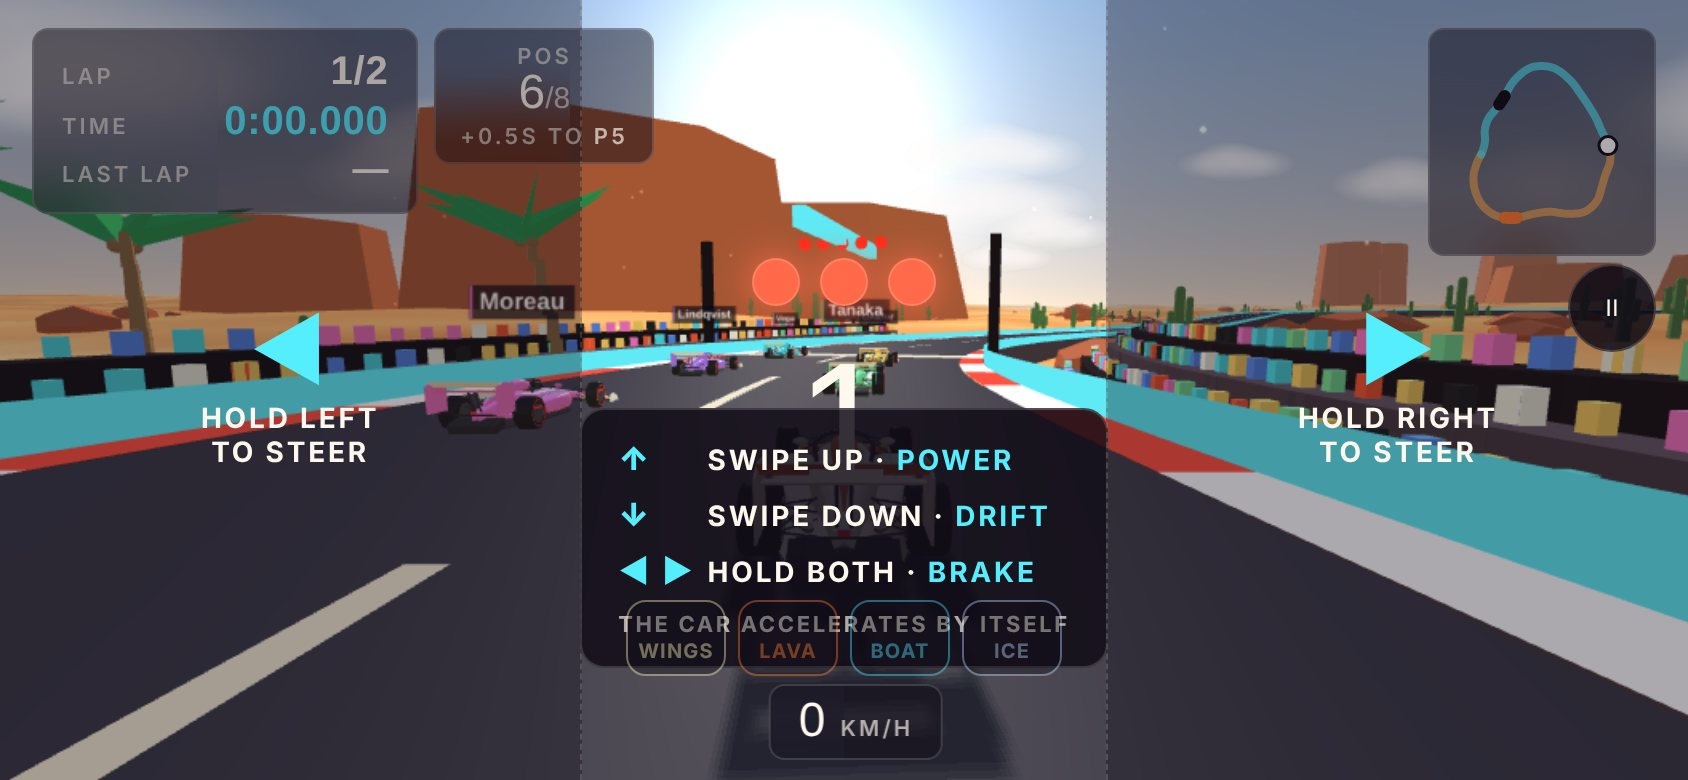
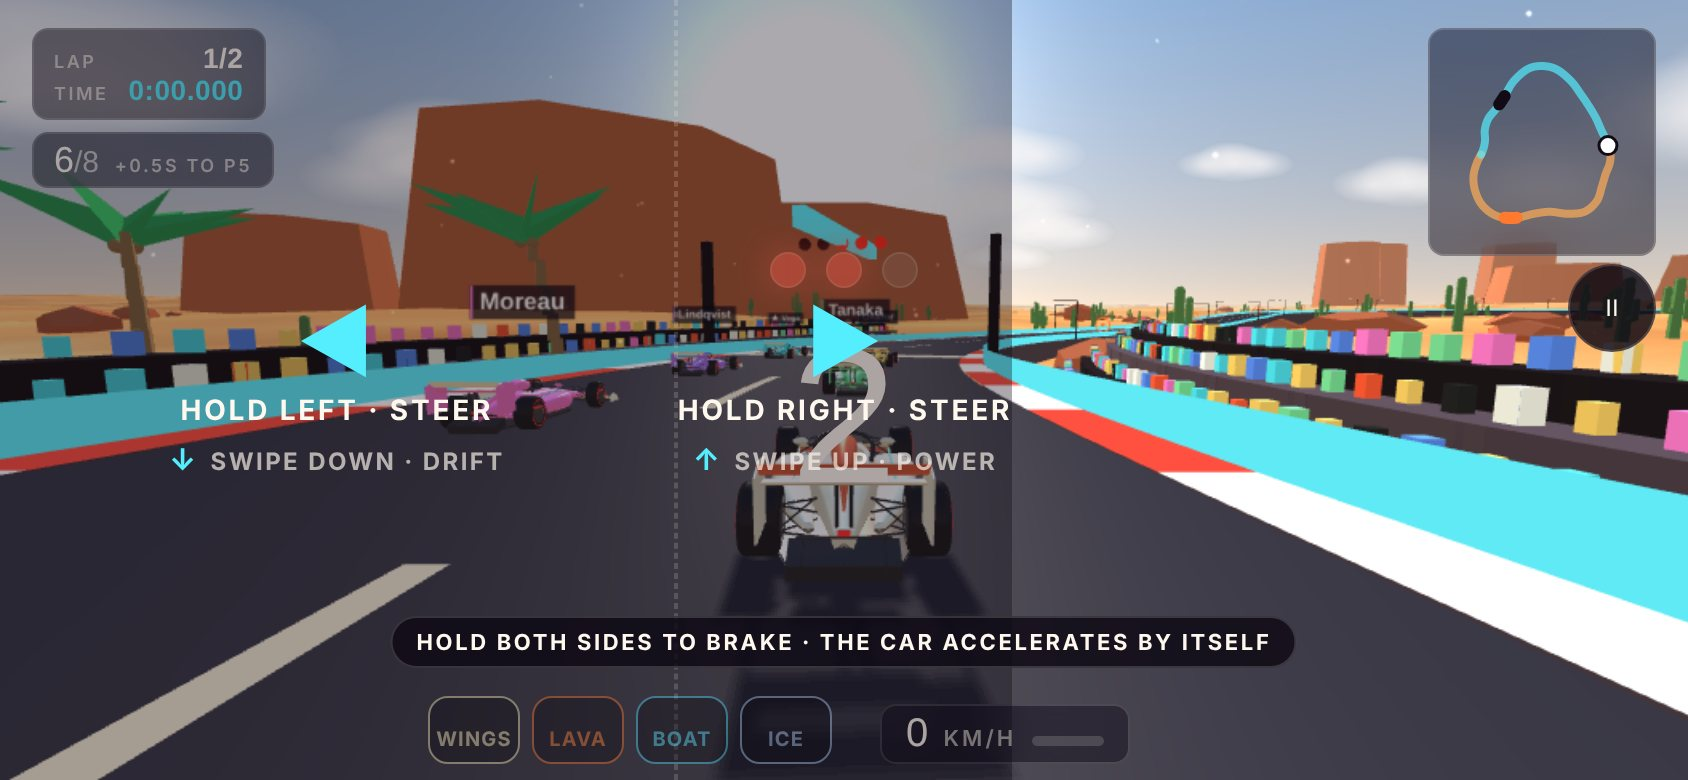
Phone UX: keep the road and car clear of hints
- Hazard hints become a slim strip; on phones it sits at the top
  centre, between the lap timer and the minimap
- Phone HUD: compact lap/time and position chips, power chips and speed
  in one row along the bottom edge (chips are status-only)
- Only one top message at a time; smaller world banner and messages
- Coach overlay split into the two side panels so the countdown stays
  clear; it disappears just after GO
- Smaller wrong-way warning on phones; milder hazard slow motion

Claude-Session: https://claude.ai/code/session_01FSBBRBtWEs9Dybw4UyTyot

diff --git a/css/style.css b/css/style.css
@@ -66,30 +66,31 @@ body:not(.racing) #hud{display:none}
 .btn:hover{border-color:var(--accent)}
 .btn small{color:var(--dim);font-weight:500;margin-left:6px}
 #msg{position:fixed;left:50%;top:calc(env(safe-area-inset-top,0px) + 96px);transform:translateX(-50%);text-align:center;pointer-events:none;
-  font-family:var(--display);font-size:clamp(14px,2.4vw,20px);letter-spacing:.06em;text-shadow:0 2px 14px rgba(0,0,0,.55);transition:opacity .4s;opacity:0;white-space:nowrap}
-#msg .sub{display:block;font-family:var(--ui);font-size:15px;letter-spacing:.14em;text-transform:uppercase;margin-top:6px;font-weight:600}
-#zoneBanner{position:fixed;left:0;right:0;top:24%;text-align:center;pointer-events:none;opacity:0;transition:opacity .9s,transform .9s;transform:translateY(8px);padding-inline:16px}
+  font-family:var(--display);font-size:clamp(13px,1.8vw,16px);letter-spacing:.06em;text-shadow:0 2px 14px rgba(0,0,0,.55);transition:opacity .4s;opacity:0;white-space:nowrap}
+#msg .sub{display:block;font-family:var(--ui);font-size:13px;letter-spacing:.14em;text-transform:uppercase;margin-top:6px;font-weight:600}
+#zoneBanner{position:fixed;left:0;right:0;top:13%;text-align:center;pointer-events:none;opacity:0;transition:opacity .9s,transform .9s;transform:translateY(8px);padding-inline:16px}
 #zoneBanner.show{opacity:1;transform:none}
-#zoneBanner .zn{font-family:var(--display);font-size:clamp(22px,5vw,46px);letter-spacing:.22em;text-transform:uppercase;text-shadow:0 4px 30px rgba(0,0,0,.35)}
-#zoneBanner .zs{font-size:15px;letter-spacing:.24em;text-transform:uppercase;opacity:.85;margin-top:8px;font-weight:600}
+#zoneBanner .zn{font-family:var(--display);font-size:clamp(16px,2.6vw,26px);letter-spacing:.2em;text-transform:uppercase;text-shadow:0 4px 30px rgba(0,0,0,.35)}
+#zoneBanner .zs{font-size:12px;letter-spacing:.22em;text-transform:uppercase;opacity:.85;margin-top:4px;font-weight:600}
 #prompt{position:fixed;left:50%;bottom:calc(env(safe-area-inset-bottom,0px) + 150px);transform:translateX(-50%);display:flex;flex-direction:column;align-items:center;gap:6px;pointer-events:none;
-  background:var(--panel-solid);border:1px solid var(--line);border-radius:10px;padding:10px 18px;text-align:center;max-width:calc(var(--appw,100vw) - 32px)}
-#prompt .ph{font-family:var(--display);font-size:clamp(14px,2.2vw,19px);letter-spacing:.08em;text-transform:uppercase}
-#prompt .pa{font-size:16px;font-weight:700;letter-spacing:.1em;text-transform:uppercase;color:var(--ink);display:flex;align-items:center;gap:8px}
-#prompt kbd{font-size:16px;padding:3px 10px;background:var(--ink);color:#1a0d12;border-color:var(--ink)}
+  background:var(--panel);border:1px solid var(--line);border-radius:10px;padding:6px 14px;gap:3px;text-align:center;max-width:calc(var(--appw,100vw) - 32px)}
+#prompt .ph{font-family:var(--display);font-size:clamp(12px,1.6vw,15px);letter-spacing:.08em;text-transform:uppercase}
+#prompt .pa{font-size:14px;font-weight:700;letter-spacing:.1em;text-transform:uppercase;color:var(--ink);display:flex;align-items:center;gap:8px}
+#prompt kbd{font-size:13px;padding:2px 8px;background:var(--ink);color:#1a0d12;border-color:var(--ink)}
 #prompt.urgent{border-color:var(--accent);animation:urg .5s ease-in-out infinite alternate}
 #prompt.bad{border-color:var(--hot)}#prompt.bad .ph{color:var(--hot)}
 #prompt .pbar{width:180px;height:6px;border-radius:3px;background:var(--line);overflow:hidden}#prompt .pbar b{display:block;height:100%;background:var(--hot)}
 @keyframes urg{to{box-shadow:0 0 22px var(--accent)}}
-#tutor{position:fixed;left:50%;top:50%;transform:translate(-50%,-30%);pointer-events:none;text-align:center;display:grid;gap:10px;justify-items:center;
-  background:rgba(14,9,20,.78);backdrop-filter:blur(10px);-webkit-backdrop-filter:blur(10px);border:2px solid var(--accent);border-radius:14px;padding:18px 26px 20px;width:min(460px,calc(var(--appw,100vw) - 32px));
-  animation:tutIn .25s ease-out,urg .6s ease-in-out .25s infinite alternate}
-#tutor .tw{font-family:var(--display);font-size:clamp(18px,3.4vw,28px);letter-spacing:.1em;text-transform:uppercase}
-#tutor .tk{font-family:var(--display);font-size:clamp(20px,4vw,34px);letter-spacing:.06em;text-transform:uppercase;display:flex;align-items:center;gap:12px}
-#tutor .tk kbd{font-family:var(--display);font-size:clamp(24px,5vw,40px);padding:4px 16px;background:var(--ink);color:#1a0d12;border:0;border-radius:8px;box-shadow:0 4px 0 rgba(0,0,0,.4)}
-#tutor .tk b{background:var(--ink);color:#1a0d12;padding:2px 12px;border-radius:8px}
-#tutor .tx{font-size:18px;font-weight:600;line-height:1.3;color:var(--ink);max-width:36ch}
-@keyframes tutIn{from{opacity:0;transform:translate(-50%,-20%) scale(.92)}}
+#tutor{position:fixed;left:50%;bottom:calc(env(safe-area-inset-bottom,0px) + 150px);transform:translateX(-50%);display:flex;align-items:center;gap:10px;white-space:nowrap;pointer-events:none;
+  background:rgba(14,9,20,.7);backdrop-filter:blur(8px);-webkit-backdrop-filter:blur(8px);border:1.5px solid var(--c,var(--accent));border-radius:999px;padding:6px 8px 6px 12px;max-width:calc(var(--appw,100vw) - 32px);
+  animation:tutIn .2s ease-out,tglow .7s ease-in-out .2s infinite alternate}
+#tutor .ic{width:10px;height:10px;border-radius:50%;background:var(--c);box-shadow:0 0 8px var(--c);flex:none}
+#tutor .tw{font-family:var(--display);font-size:13px;letter-spacing:.08em;text-transform:uppercase;color:var(--c)}
+#tutor .tk{display:flex;align-items:center;gap:7px;font-size:14px;font-weight:700;letter-spacing:.08em;text-transform:uppercase;color:var(--ink)}
+#tutor .tk kbd{font-family:var(--display);font-size:13px;padding:3px 9px;background:var(--ink);color:#1a0d12;border:0;border-radius:6px}
+#tutor .tk b{color:var(--c)}
+@keyframes tutIn{from{opacity:0;transform:translate(-50%,8px)}}
+@keyframes tglow{to{box-shadow:0 0 16px var(--c)}}
 body:not(.racing) #tutor,body.paused #tutor{display:none}
 
 @media (prefers-reduced-motion:reduce){#tutor{animation:none}}
@@ -221,23 +222,40 @@ body.rot #app{inset:auto;top:0;left:0;transform-origin:0 0}
 #coach{position:fixed;inset:0;display:grid;grid-template-columns:1fr auto 1fr;align-items:center;pointer-events:none;z-index:2}
 #coach .ch{display:flex;flex-direction:column;align-items:center;gap:6px;font-size:14px;font-weight:700;letter-spacing:.1em;text-transform:uppercase;text-align:center}
 #coach .ch.l,#coach .ch.r{height:100%;justify-content:center;background:rgba(14,9,20,.35)}
-#coach .ch.l{border-right:1px dashed var(--line)}#coach .ch.r{border-left:1px dashed var(--line)}
+#coach .ch.l{grid-column:1;border-right:1px dashed var(--line)}#coach .ch.r{grid-column:3}#coach .ch.r{border-left:1px dashed var(--line)}
 #coach .ch.l b,#coach .ch.r b{font-size:40px;line-height:1;color:var(--accent)}
-#coach .ch.c{align-self:end;margin-bottom:56px;background:var(--panel-solid);border:1px solid var(--line);border-radius:12px;padding:14px 18px;gap:8px;align-items:stretch;text-align:left;margin-inline:-1px}
+#coach .ch.c{display:none;background:var(--panel-solid);border:1px solid var(--line);border-radius:12px;padding:14px 18px;gap:8px;align-items:stretch;text-align:left;margin-inline:-1px}
 #coach .ch.c b{display:inline-block;min-width:40px;color:var(--accent);font-size:16px}
 #coach .ch.c em{font-style:normal;color:var(--accent)}
+.coachNote{position:absolute;left:50%;transform:translateX(-50%);bottom:calc(env(safe-area-inset-bottom,0px) + 56px);white-space:nowrap;font-size:11px;font-weight:700;letter-spacing:.12em;text-transform:uppercase;color:var(--ink);background:var(--panel-solid);border:1px solid var(--line);border-radius:999px;padding:5px 12px}
+#coach .ch .g{font-size:12px;color:var(--dim);letter-spacing:.1em}#coach .ch .g em{font-style:normal;color:var(--accent);font-size:15px;margin-right:2px}
 #coach .ch.c small{font-size:11px;color:var(--dim);letter-spacing:.12em;text-align:center;margin-top:2px}
 @media (pointer:coarse){
-  #zoneBanner{top:40%}#zoneBanner .zn{font-size:22px}#zoneBanner .zs{font-size:12px}
+  #zoneBanner{top:22%}#zoneBanner .zn{font-size:16px}#zoneBanner .zs{font-size:11px}
   body.racing:not(.paused) #touchZone{display:block}body.racing:not(.paused) #touchHud{display:block}
   .touchOnly{display:grid}.deskOnly{display:none!important}
   #minimap{width:96px;height:96px}
   .bar.bottom .tools,.bar.bottom #powers{display:none}
   .bar.bottom{position:fixed;left:50%;transform:translateX(-50%);bottom:calc(env(safe-area-inset-bottom,0px) + 10px);justify-content:center}
   #speedo{display:flex;align-items:baseline;gap:8px;padding:6px 14px;min-width:0}#speedo>.lbl{order:2}#speed{font-size:24px}#rev,#speedo .speedRow{display:none}
-  #prompt{bottom:calc(env(safe-area-inset-bottom,0px) + 100px)}
   #board{display:none}#posChip{padding:6px 12px}#posVal{font-size:24px}
-  #tutor{top:40%;padding:12px 16px 14px}#tutor .tx{font-size:15px}
+  /* phone: hints at the top centre, one slim status row along the bottom edge, nothing under the car */
+  .topLeft{flex-direction:column;gap:6px!important}
+  .timing{padding:6px 10px;row-gap:0;column-gap:10px}.timing .lbl{font-size:9px}.timing .val{font-size:13px}.timing .val.big{font-size:14px}#refLbl,#refTime{display:none}
+  #posChip{padding:4px 10px!important;display:flex;align-items:baseline;gap:8px}#posChip>.lbl:first-child{display:none}#posVal{font-size:18px!important}#posGap{font-size:9px;margin:0!important}
+  #tutor,#prompt{top:calc(env(safe-area-inset-top,0px) + 12px);bottom:auto!important;max-width:calc(var(--appw,100vw) - 380px);min-width:0}
+  #prompt{flex-direction:row;gap:10px;padding:5px 12px}#prompt .pbar{width:70px}
+  #msg{top:calc(env(safe-area-inset-top,0px) + 52px)!important}#msg .sub{font-size:11px;margin-top:2px}
+  #zoneBanner{top:calc(env(safe-area-inset-top,0px) + 96px)!important}
+  #wrongWay{top:calc(env(safe-area-inset-top,0px) + 50px)!important}
+  #touchHud .tpows{bottom:calc(env(safe-area-inset-bottom,0px) + 8px)!important;transform:translateX(-100%)!important;margin-left:-6px;pointer-events:none}
+  .tpw{height:34px!important;width:46px!important}
+  .bar.bottom{left:50%!important;transform:none!important;margin-left:6px;bottom:calc(env(safe-area-inset-bottom,0px) + 8px)!important}
+  #speedo{padding:4px 12px!important}#speed{font-size:20px!important}
+  #count{font-size:96px}#count .lights i{width:16px;height:16px}
+  #tutor .tw{white-space:nowrap}
+  #wrongWay{top:18%;padding:6px 16px}#wrongWay b{font-size:20px}#wrongWay span{font-size:11px}
+  #tutor .tw{font-size:11px}#tutor .tk{font-size:12px}#tutor .tk kbd{font-size:11px}#tutor{padding:4px 6px 4px 10px;gap:8px}
   #msg{top:calc(env(safe-area-inset-top,0px) + 66px)}
 }
 body.narrow .timing{padding:8px 10px;column-gap:10px}body.narrow .val{font-size:15px}body.narrow .val.big{font-size:15px}body.narrow #minimap{width:96px;height:96px}

diff --git a/js/game.js b/js/game.js
@@ -521,7 +521,7 @@ function tone(f1,f2,dur,type,vol){if(!ac||!soundOn)return;const o=ac.createOscil
 
 /* ---------- Messages ---------- */
 let msgTimer=0,bannerT=0;
-function flash(main,sub,col){const el=$('msg');el.innerHTML=esc(main)+(sub?'<span class="sub" style="color:'+(col||'var(--dim)')+'">'+esc(sub)+'</span>':'');el.style.opacity=1;msgTimer=2.4;}
+function flash(main,sub,col){if(bannerT>0){$('zoneBanner').classList.remove('show');bannerT=0;}const el=$('msg');el.innerHTML=esc(main)+(sub?'<span class="sub" style="color:'+(col||'var(--dim)')+'">'+esc(sub)+'</span>':'');el.style.opacity=1;msgTimer=1.9;}
 function gainFx(t){const b=pwEls[t];b.classList.remove('gain');void b.offsetWidth;b.classList.add('gain');const p=$('gainPop');p.textContent='+34% '+PW[t].name.toLowerCase();p.style.color='var('+PW[t].css+')';p.classList.remove('show');void p.offsetWidth;p.classList.add('show');}
 
 /* ---------- Minimap ---------- */
@@ -629,7 +629,7 @@ function updWrongWay(dt){
   if(Math.abs(st.speed)>2.5&&along<-.25)wwT+=dt;              // driving (or reversing) against the track
   else if(Math.abs(st.speed)<=2.5&&facing<-.5)wwT+=dt*.7;     // parked facing backwards
   else wwT=Math.max(0,wwT-dt*2.5);
-  $('wrongWay').hidden=wwT<.45;
+  $('wrongWay').hidden=wwT<.45;if(wwT>=.45){$('msg').style.opacity=0;msgTimer=0;}
   if(wwT>2.4)turnAround();
 }
 function startRace(li,kind,raceId,lane){
@@ -780,7 +780,7 @@ function worldUpdate(dt,idx,focus){
   if(bloom)bloom.strength=mixN('bloom');
   let dom=0;for(let k=1;k<4;k++)if(WZ[k]>WZ[dom])dom=k;
   if(dom!==lastZone){lastZone=dom;document.documentElement.style.setProperty('--accent',hex(ZONES[dom].rail));
-    if(mode==='race'&&race&&race.state==='run'){$('zoneName').textContent=ZONES[dom].name;$('zoneSub').textContent=ZONES[dom].sub;$('zoneBanner').classList.add('show');bannerT=3;}}
+    if(mode==='race'&&race&&race.state==='run'&&msgTimer<=0){$('zoneName').textContent=ZONES[dom].name;$('zoneSub').textContent=ZONES[dom].sub;$('zoneBanner').classList.add('show');bannerT=2.2;}}
   envDirty-=dt;if(envDirty<=0&&(WZ[dom]<.985||dom!==envZone)){refreshEnv();envDirty=.6;envZone=dom;}
 }
 function updSparkles(dt,focus){
@@ -994,7 +994,7 @@ function perfGuard(dt){perfT+=dt;perfN++;if(perfT<3)return;const fps=perfN/perfT
   if(perfStep===3){renderer.setPixelRatio(1);resize();}}
 function render(){if(composer)composer.render();else renderer.render(scene,camera);}
 const ACT=['activate wings','switch on lava tyres','switch on the boat','switch on ice studs'];
-let hudDmg=-1,promptKey='',tutKey='',tutorT=-1,slowMo=false;
+let hudDmg=-1,tutC='--accent',promptKey='',tutKey='',tutorT=-1,slowMo=false;
 const TUTX=['to spread your wings and fly over the gap. '+(coarse?'Swipe up':'Press F')+' again after you land to fold them.','to switch on lava tyres before you hit the lava.','to switch on the boat before the flood.','to switch on ice studs for grip on the ice.'],TUTC=['gold','orange','blue','ice-blue'];
 function updPrompt(){
   let best=null,bd=1e9,inside=null;
@@ -1016,11 +1016,11 @@ function updPrompt(){
   if(best&&!inside&&race&&race.state==='run'){const t=best.t,p=PW[t];
     if((race.li<=2||!prog.seen[t])&&!st.on[t]){
       if(st.pw[t]>0&&bd<120){tk=t;slow=bd<95;
-        tut='<div class="tw" style="color:var('+p.css+')">'+p.hz+' ahead</div><div class="tk">'+(coarse?'Swipe <b>↑ UP</b>':'Press <kbd>'+(t===0?'F':t+1)+'</kbd>')+'</div><div class="tx">'+TUTX[t]+'</div>';}
-      else if(st.pw[t]<=0&&bd<220){tut='<div class="tw" style="color:var('+p.css+')">'+p.hz+' ahead</div><div class="tx">Drive through the <b style="color:var('+p.css+')">'+TUTC[t]+' rings</b> to charge '+p.name.toLowerCase()+'</div>';}}}
+        tut='<i class="ic"></i><span class="tw">'+p.hz+'</span><span class="tk">'+(coarse?'<kbd>Swipe ↑</kbd>':'<kbd>'+(t===0?'F':t+1)+'</kbd>')+p.name+'</span>';tutC=p.css;}
+      else if(st.pw[t]<=0&&bd<220){tut='<i class="ic"></i><span class="tw">'+p.hz+'</span><span class="tk">Grab the <b>'+TUTC[t]+' rings</b></span>';tutC=p.css;}}}
   if(inside)for(const h of HAZ){const into=((st.idx-h.a)%M+M)%M;if(into>h.b-h.a-3&&into<h.b-h.a&&!prog.seen[h.t]){prog.seen[h.t]=1;saveProg();}}
   tutorT=tk;slowMo=slow;
-  if(tut!==tutKey){tutKey=tut;$('tutor').innerHTML=tut;$('tutor').hidden=!tut;if(tut){$('zoneBanner').classList.remove('show');bannerT=0;}}
+  if(tut!==tutKey){tutKey=tut;$('tutor').innerHTML=tut;$('tutor').hidden=!tut;if(tut)$('tutor').style.setProperty('--c','var('+tutC+')');if(tut){$('zoneBanner').classList.remove('show');bannerT=0;}}
   if(tut)html='';
   const key=html+cls;if(key!==promptKey){promptKey=key;el.innerHTML=html;el.className=cls;el.hidden=!html;}
 }
@@ -1029,7 +1029,7 @@ function hudPowers(){for(let k=0;k<4;k++){const b=pwEls[k];b.querySelector('.m b
   if(coarse)document.querySelectorAll('.tpw').forEach((b,k)=>{b.style.setProperty('--f',st.pw[k]+'%');b.classList.toggle('on',st.on[k]);b.classList.toggle('empty',st.pw[k]<=0);});}
 function frame(t){
   requestAnimationFrame(frame);
-  let dt=Math.min(.05,(t-last)/1000);last=t;perfGuard(dt);if(slowMo&&mode==='race'&&race&&!race.multi&&!paused)dt*=.35;clock+=dt;
+  let dt=Math.min(.05,(t-last)/1000);last=t;perfGuard(dt);if(slowMo&&mode==='race'&&race&&!race.multi&&!paused)dt*=.55;clock+=dt;
   sky.position.copy(camera.position);skyGroup.position.copy(camera.position);
   if(!M){render();return;}
   updAmbient(clock);
@@ -1051,7 +1051,7 @@ function frame(t){
     race.countT-=dt;const n=Math.ceil(race.countT);const el=$('count');el.hidden=false;
     if(race.countT>0){const m=Math.min(3,n);el.innerHTML='<div class="lights">'+[0,1,2].map(i=>'<i class="'+(i<4-m?'on':'')+'"></i>').join('')+'</div>'+m;}
     else{el.innerHTML='<div class="lights go"><i></i><i></i><i></i></div><span class="go">GO</span>';race.state='run';setLamps(0);if(race.gp){const nm=ais.find(a=>a.nem);if(nm)setTimeout(()=>{if(race&&race.state==='run')flash('Your rival: '+nm.name,'Beat them to the line','var(--accent)');},1800);}race.t0=now;race.lapStart=now;gPtr=0;
-      $('zoneName').textContent=ZONES[SEGZ[0]].name;$('zoneSub').textContent='Level '+(race.li+1)+' · '+LEVELS[race.li].name;$('zoneBanner').classList.add('show');bannerT=3;setTimeout(()=>{$('count').hidden=true;},900);}
+      $('zoneName').textContent=ZONES[SEGZ[0]].name;$('zoneSub').textContent='Level '+(race.li+1)+' · '+LEVELS[race.li].name;$('zoneBanner').classList.add('show');bannerT=2.2;setTimeout(()=>{$('count').hidden=true;},900);}
     physics(dt,false);updAI(dt,false);setLamps(race.countT);if(coarse&&$('coach').hidden)$('coach').hidden=false;
   }else if(race.state==='run'){
     const prev=physics(dt,canDrive);if(race.state==='run')lapLogic(prev);if(race.gp&&race.state==='run'){updAI(dt,true);collide();}
@@ -1066,7 +1066,7 @@ function frame(t){
   else if(race.state==='failed'){ghost.visible=false;st.speed*=Math.exp(-dt*3);if(!paused&&now-race.failT>.9)showFail();}
   else{physics(dt,false);ghost.visible=false;slowMo=false;if(race.confetti&&Math.random()<.6)emit(new V3(st.pos.x+(Math.random()-.5)*10,st.pos.y+8,st.pos.z+(Math.random()-.5)*10),3,2);$('wrongWay').hidden=true;if(!$('tutor').hidden){$('tutor').hidden=true;tutKey='';}$('prompt').hidden=true;promptKey='';if(race.gp)updAI(dt,true);}
   if(race.state==='run'&&lampsOn&&now-race.t0>1.2){setLamps(-1);}
-  if(!$('coach').hidden&&race.state==='run'&&(now-race.t0>2||tps.size))$('coach').hidden=true;
+  if(!$('coach').hidden&&race.state!=='count'&&(now-race.t0>.6||tps.size||race.state!=='run'))$('coach').hidden=true;
   placeCar(dt);updTokens(dt);updTrail();updRemotes(dt);updParts(dt);
   {const slip=Math.abs(ang(st.h,st.vh));if(!st.air&&st.speed>14&&(slip>.22||(keys.down&&st.speed>28)))emit(st.pos,0,1);if(hzAt(st.idx)===1&&!st.on[1]&&!st.air)emit(st.pos,1,2);}
   worldUpdate(dt,st.idx,st.pos);updSparkles(dt,st.pos);

diff --git a/index.html b/index.html
@@ -25,7 +25,7 @@
 <div id="speedLines" aria-hidden="true"></div>
 <div id="hud">
   <div class="bar">
-    <div style="display:flex;gap:8px;align-items:flex-start;flex-wrap:wrap">
+    <div class="topLeft" style="display:flex;gap:8px;align-items:flex-start;flex-wrap:wrap">
       <div class="chip timing">
         <span class="lbl">Lap</span><span class="val big" id="lapNum">1/2</span>
         <span class="lbl">Time</span><span class="val big acc" id="raceTime">0:00.000</span>
@@ -73,9 +73,10 @@
   <button class="tpause" id="pauseT" type="button" aria-label="Pause">II</button>
 </div>
 <div id="coach" hidden>
-  <div class="ch l"><b>◀</b><span>Hold left<br>to steer</span></div>
-  <div class="ch c"><div><b>↑</b> Swipe up · <em>Power</em></div><div><b>↓</b> Swipe down · <em>Drift</em></div><div><b>◀ ▶</b> Hold both · <em>Brake</em></div><small>The car accelerates by itself</small></div>
-  <div class="ch r"><b>▶</b><span>Hold right<br>to steer</span></div>
+  <div class="ch l"><b>◀</b><span>Hold left · steer</span><span class="g"><em>↓</em> Swipe down · drift</span></div>
+  <div class="ch c"></div>
+  <div class="ch r"><b>▶</b><span>Hold right · steer</span><span class="g"><em>↑</em> Swipe up · power</span></div>
+  <div class="coachNote">Hold both sides to brake · the car accelerates by itself</div>
 </div>
 
 <div id="screens">
@@ -103,7 +104,7 @@
       <kbd>Space</kbd><span>Handbrake drift</span>
       <kbd>C · R · P</kbd><span>Camera · reset · pause</span>
     </div>
-    <p class="note touchOnly" id="touchHelp">On a phone the car accelerates by itself. Hold the left or right side of the screen to steer, swipe up to switch on the power for the hazard ahead, swipe down to drift, and hold both sides to brake.</p>
+    <p class="note touchOnly" id="touchHelp">On a phone the car accelerates by itself. Hold the left or right side of the screen to steer, swipe up to switch on the power for the hazard ahead, swipe down to drift, and hold both sides to brake. The power chips at the bottom show your charge.</p>
   </section>
 
   <!-- Multi: name + room -->

diff --git a/README.md b/README.md
@@ -83,7 +83,7 @@ A single lap can pass through several worlds, which blend into each other as you
 
 **Touch (phones and tablets)**
 
-Touch controls follow the *Need for Speed: No Limits* style: no buttons to hunt for, just the two halves of the screen.
+Touch controls follow the *Need for Speed: No Limits* style: no buttons to hunt for, just the two halves of the screen. Hints and warnings sit in a slim strip at the top of the screen and the status row sits along the bottom edge, so the road and your car stay clear.
 
 | Action | Gesture |
 |---|---|
@@ -92,7 +92,7 @@ Touch controls follow the *Need for Speed: No Limits* style: no buttons to hunt 
 | Switch on the power for the hazard ahead | Swipe up |
 | Drift | Swipe down (keep holding to keep drifting) |
 | Brake | Hold both halves at once |
-| Switch a specific power on or off | Tap its chip above the speed readout |
+| See your charge | The power chips next to the speed readout fill up as you collect rings |
 
 The game always plays in landscape. If your phone is held upright, the game turns itself sideways so you can simply rotate the phone. On Android, when the game is opened from its own web address, it also tries to go full screen and lock landscape.
 
